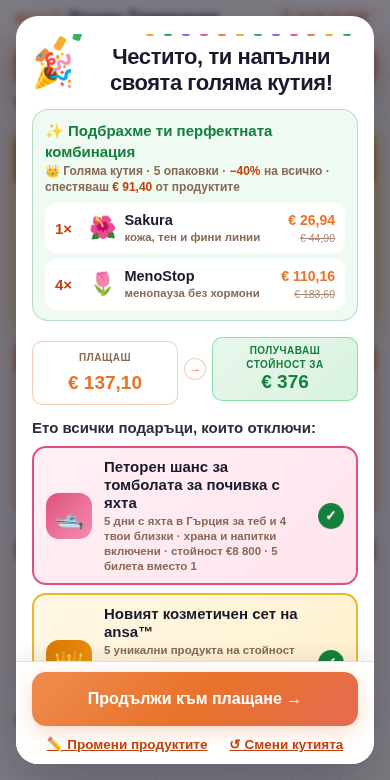
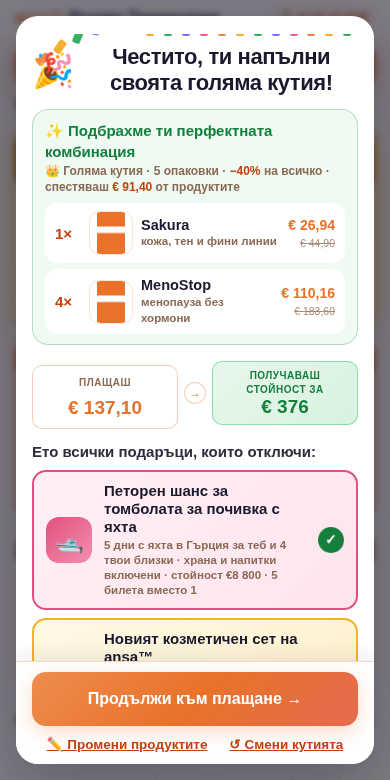
ansa™ Промо 1.0.3: цял екран, WC снимки, бадж с цена в пълненето, таб 📦 Продукти
Темплейт „ansa™ Промо — цял екран“ + настройка за скриване на елементи на темата по селектори;
overlay/тост/sticky над хедъра на темата. promo-extra.css: контейнери за WC снимки (object-fit),
бадж −% и намалена/редовна цена в редовете на „Напълни кутията си“. Админ: таб Продукти —
ключ ↔ WC продукт (търсене по име/ID с превю), всички полета, добавяне/изтриване.

Claude-Session: https://claude.ai/code/session_016eHbdq6ce2AdM4hWrfpux9

diff --git a/assets/promo.js b/assets/promo.js
@@ -78,6 +78,9 @@
   function boxVars(b){return {box:esc(b.name),box_l:esc(b.name.toLowerCase()),box_ic:b.ic,packs:b.packs,opk:opk(b.packs),pct:b.pct,tickets:tixOf(b),shans:shans(tixOf(b)),rest:b.packs-1,opk_rest:opk(b.packs-1),cosm_pay:b.cosm_pay!=null?money(b.cosm_pay):'',save:m0(boxSaveMax(b)),produkt:b.packs===1?'продукт':'продукти'}}
   /* козметичният сет: винаги зачертана стойност + „величествена“ цена (pill, никога inline) */
   function cosmPrice(r,big){if(r!=='cosm1'&&r!=='cosm50')return '';var b=boxOf(r==='cosm1'?'l':'m');if(!b||b.cosm_pay==null)return '';return '<span class="cpx'+(r==='cosm1'?' one':' half')+(big?' big':'')+'"><small'+ck('cpx.label')+'>'+T('cpx.label')+'</small><s>€'+COSM+'</s><b>€'+money(b.cosm_pay)+'</b></span>'}
+  /* v1.0.3: бадж с отстъпката + намалена/редовна цена в редовете на пълненето (искане на човека; не е в мокъп v73) */
+  function fprc(pr,b){return '<span class="fpct">−'+b.pct+'%</span>'}
+  function fprice(pr,b){return '<span class="fprc"><b>'+m(r2(pr.price*(1-b.pct/100)))+'</b><s>'+m(pr.price)+'</s></span>'}
   function tgtVars(t){var d=t.packs-(S.box!==null?BX().packs:0);return {box_t:esc(t.name),box_t_l:esc(t.name.toLowerCase()),box_t_ic:t.ic,pct_t:t.pct,save_t:m0(boxSaveMax(t)),s_box_t:sPrep(t.name,true),diff:d,prod_diff:prodw(d),opk_diff:opk(d),delyat:d===1?'дели':'делят'}}
 
   /* ── имейл-попъп (v73 „g2“): веднъж на сесия, може да се пропусне ── */
@@ -232,7 +235,7 @@
     var body='<div class="fp2"><div class="f2h"><b'+ck('fill.hero.'+b.id)+'>'+b.ic+' '+T('fill.hero.'+b.id)+'</b><div class="fgifts">'+gifts+'</div></div>'
       +'<div class="f2box"><p class="f2intro"'+ck('fill.intro')+'>'+T('fill.intro',bv)+'</p>'+mix+'</div>'
       +'<div class="fslots" id="fSlots"></div>'
-      +'<div class="fcats">'+rows.map(function(r){var pr=PROD[r.key];return '<div class="fcat'+(r.core?' core':'')+'" data-nq="'+r.key+'"><span class="pic">'+pic(pr,'pimg')+'</span><div class="ftx"><em class="fct">'+esc(r.t)+'</em><b>'+esc(pr.name)+'</b><small>'+esc(r.why)+'</small><button class="fmore" data-more="'+r.key+'"'+ck('fill.more')+'>'+T('fill.more')+'</button></div><span class="stp"><button data-dec="'+r.key+'" aria-label="−">−</button><b data-q="'+r.key+'">0</b><button data-inc="'+r.key+'" aria-label="+">+</button></span></div>'}).join('')+'</div>'
+      +'<div class="fcats">'+rows.map(function(r){var pr=PROD[r.key];return '<div class="fcat'+(r.core?' core':'')+'" data-nq="'+r.key+'">'+fprc(pr,b)+'<span class="pic">'+pic(pr,'pimg')+'</span><div class="ftx"><em class="fct">'+esc(r.t)+'</em><b>'+esc(pr.name)+'</b><small>'+esc(r.why)+'</small>'+fprice(pr,b)+'<button class="fmore" data-more="'+r.key+'"'+ck('fill.more')+'>'+T('fill.more')+'</button></div><span class="stp"><button data-dec="'+r.key+'" aria-label="−">−</button><b data-q="'+r.key+'">0</b><button data-inc="'+r.key+'" aria-label="+">+</button></span></div>'}).join('')+'</div>'
       +'<button class="cta" id="nFill"></button><div class="fback"><button class="lnk" id="fBack"'+ck('fill.back')+'>'+T('fill.back')+'</button></div></div>';
     var mob=MOB();
     if(mob){
@@ -242,7 +245,7 @@
       body='<div class="mfh"><div class="mft"><span class="mfi">'+b.ic+'</span><div class="mftx"><b>'+esc(b.name)+'</b><small'+ck('mfill.pct')+'>'+T('mfill.pct',bv)+'</small></div><button class="mfsw" id="fBack"'+ck('mfill.sw')+'>'+T('mfill.sw')+'</button><button class="mfx" id="fClose" aria-label="затвори">✕</button></div>'
         +'<p class="mfin"'+ck('mfill.intro')+'>'+T('mfill.intro',Object.assign({same:P>1?T('mfill.same'):''},bv))+'</p>'
         +'<div class="mfg">'+gl.map(function(x){return '<span>'+x+'</span>'}).join('')+'</div></div>'
-        +'<div class="mfl">'+rows.map(function(r){var pr=PROD[r.key];return '<div class="fcat mrow'+(r.core?' core':'')+'" data-nq="'+r.key+'"><span class="pic">'+pic(pr,'pimg')+'</span><div class="ftx"><em class="fct">'+(r.core?T('mfill.core',{t:esc(r.t)}):esc(r.t))+'</em><b>'+esc(pr.name)+'</b><small>'+esc(r.why)+'</small><button class="fmore" data-more="'+r.key+'"'+ck('mfill.more')+'>'+T('mfill.more')+'</button></div><div class="mact"><button class="madd" data-inc="'+r.key+'"'+ck('mfill.add')+'>'+T('mfill.add')+'</button><span class="stp"><button data-dec="'+r.key+'" aria-label="−">−</button><b data-q="'+r.key+'">0</b><button data-inc="'+r.key+'" aria-label="+">+</button></span></div></div>'}).join('')+'</div>'
+        +'<div class="mfl">'+rows.map(function(r){var pr=PROD[r.key];return '<div class="fcat mrow'+(r.core?' core':'')+'" data-nq="'+r.key+'">'+fprc(pr,b)+'<span class="pic">'+pic(pr,'pimg')+'</span><div class="ftx"><em class="fct">'+(r.core?T('mfill.core',{t:esc(r.t)}):esc(r.t))+'</em><b>'+esc(pr.name)+'</b><small>'+esc(r.why)+'</small>'+fprice(pr,b)+'<button class="fmore" data-more="'+r.key+'"'+ck('mfill.more')+'>'+T('mfill.more')+'</button></div><div class="mact"><button class="madd" data-inc="'+r.key+'"'+ck('mfill.add')+'>'+T('mfill.add')+'</button><span class="stp"><button data-dec="'+r.key+'" aria-label="−">−</button><b data-q="'+r.key+'">0</b><button data-inc="'+r.key+'" aria-label="+">+</button></span></div></div>'}).join('')+'</div>'
         +'<div class="mff"><div class="fslots" id="fSlots"></div><button class="cta" id="nFill"></button></div>';
     }
     info(mob?'':T('fill.title'),body);var dc=$('apDc');dc.classList.add('fpw');if(mob)dc.classList.add('fpm');

diff --git a/assets/promo-extra.css b/assets/promo-extra.css
@@ -1,0 +1,44 @@
+/* ansa™ Промо — добавки на плъгина ВЪРХУ порта на мокъпа (promo.css се генерира и не се пипа на ръка).
+   1) WC снимки вместо емоджита: контейнерите стават с фиксиран размер, бял фон и object-fit:contain.
+   2) z-index: overlay/тост/sticky над хедъра на темата (root-ът НЕ е stacking context).
+   3) Бадж с отстъпката + редовна/намалена цена в редовете на „Напълни кутията си“ (искане на човека, не е в мокъп v73).
+   4) „Цял екран“: скриване на хедър/футър/плаващи бутони на темата на промо страницата (селекторите са настройка). */
+
+/* ── 1 · снимки ── */
+.ansa-promo img.pimg,.ansa-promo img.timg,.ansa-promo img.simg,.ansa-promo img.oimg,.ansa-promo img.cimg,.ansa-promo img.gimg,.ansa-promo img.ppi,.ansa-promo img.hpic{width:100%;height:100%;object-fit:contain;border-radius:inherit;display:block;background:#fff}
+.ansa-promo .cit i{flex:0 0 44px;width:44px;height:44px;border-radius:11px;background:linear-gradient(145deg,#fff6ee,#ffe3cf);display:flex;align-items:center;justify-content:center;overflow:hidden}
+.ansa-promo .cit .ctx{min-width:0}
+.ansa-promo .cit .ctx b,.ansa-promo .cit .ctx small{display:block;white-space:normal;word-break:normal;overflow-wrap:anywhere}
+.ansa-promo .fcat .pic,.ansa-promo .spic,.ansa-promo .tile .pic,.ansa-promo .orow .pic,.ansa-promo .ppic,.ansa-promo .ppimg,.ansa-promo .g2pic,.ansa-promo .fs{overflow:hidden;flex-shrink:0}
+.ansa-promo .fcat .pic:has(img),.ansa-promo .spic:has(img),.ansa-promo .tile .pic:has(img),.ansa-promo .orow .pic:has(img),.ansa-promo .ppic:has(img),.ansa-promo .ppimg:has(img),.ansa-promo .cit i:has(img),.ansa-promo .fs:has(img){background:#fff;border:1px solid rgba(232,114,42,.18)}
+.ansa-promo .fs img{width:100%;height:100%;object-fit:contain;border-radius:inherit}
+.ansa-promo .g2pic img.gimg{border-radius:50%;object-fit:cover}
+.ansa-promo h3 img.hpic{width:28px;height:28px;display:inline-block;vertical-align:middle;border-radius:8px;margin-right:4px}
+.ansa-promo .ppimg img.ppi{border-radius:22px}
+
+/* ── 2 · z-index над темата ── */
+.ansa-promo{position:relative;z-index:auto}
+.ansa-promo::before{z-index:0}
+.ansa-promo .wrap{position:relative;z-index:1}
+.ansa-promo .hdr{z-index:2147482990;top:var(--ansa-promo-top,0px)}
+.ansa-promo .sticky{z-index:2147482995}
+.ansa-promo .ov{z-index:2147483000}
+.ansa-promo .ov2{z-index:2147483001}
+.ansa-promo .toast{z-index:2147483002}
+body.admin-bar .ansa-promo{--ansa-promo-top:32px}
+@media(max-width:782px){body.admin-bar .ansa-promo{--ansa-promo-top:46px}}
+
+/* ── 3 · цена и отстъпка в редовете на пълненето ── */
+.ansa-promo .fcat{position:relative}
+.ansa-promo .fcat .fpct{position:absolute;top:-9px;right:10px;background:linear-gradient(135deg,#ef8c4f,#e8722a);color:#fff;font-size:11px;font-weight:900;letter-spacing:.02em;border-radius:999px;padding:2px 8px;box-shadow:0 2px 8px rgba(232,114,42,.3);z-index:2}
+.ansa-promo .fcat.on .fpct{background:linear-gradient(135deg,#16a34a,#4ade80)}
+.ansa-promo .fcat .fprc{display:flex;align-items:baseline;gap:6px;margin:2px 0 3px;font-size:12.5px;line-height:1.2}
+.ansa-promo .fcat .fprc b{color:var(--od);font-size:15px;font-weight:900}
+.ansa-promo .fcat .fprc s{color:var(--tan2);font-weight:500;font-size:12px}
+.ansa-promo .fcat.on .fprc b{color:var(--gd)}
+.ansa-promo .fcat.mrow .fpct{top:-8px;right:8px;font-size:10.5px}
+
+/* ── 4 · цял екран на страницата ── */
+body.ansa-promo-fullscreen{margin:0;padding:0!important;background:var(--cream,#faf3ec)}
+body.ansa-promo-fullscreen .ansa-promo{min-height:100vh}
+body.ansa-promo-page #wpadminbar{display:none}

diff --git a/assets/promo.css b/assets/promo.css
@@ -1462,6 +1462,6 @@
 }
 
 /* ── обвивка в WP: фонът не е на body, а на root-а ── */
-.ansa-promo{position:relative;z-index:0;min-height:60vh}
+.ansa-promo{position:relative;min-height:60vh}
 .ansa-promo::before{position:absolute}
 .ansa-promo .wrap{min-height:auto}

diff --git a/includes/class-admin.php b/includes/class-admin.php
@@ -21,6 +21,17 @@ final class Admin {
 		add_action( 'admin_menu', array( __CLASS__, 'menu' ) );
 		add_filter( 'plugin_action_links_' . plugin_basename( ANSA_PROMO_FILE ), array( __CLASS__, 'action_links' ) );
 		add_action( 'admin_post_ansa_promo_tools', array( __CLASS__, 'handle' ) );
+		add_action( 'wp_ajax_ansa_promo_admin_search', array( __CLASS__, 'ajax_search' ) );
+	}
+
+	/** Търсене на WC продукт по име (таб Продукти). */
+	public static function ajax_search() {
+		if ( ! current_user_can( Plugin::CAP ) || ! check_ajax_referer( self::NONCE, 'nonce', false ) ) { wp_send_json_error( array( 'code' => 'auth' ), 403 ); }
+		$q = sanitize_text_field( (string) wp_unslash( $_GET['q'] ?? '' ) );
+		$out = array();
+		if ( ctype_digit( $q ) ) { $wc = Catalog::wc_line( (int) $q ); if ( $wc['wc_name'] ) { $out[] = array( 'id' => (int) $q, 'name' => $wc['wc_name'], 'type' => $wc['variation_id'] ? 'variable' : 'simple', 'price' => $wc['price'], 'img' => $wc['img'] ); } }
+		foreach ( Catalog::search( $q, 10 ) as $r ) { $wc = Catalog::wc_line( $r['id'] ); $r['img'] = $wc['img']; $r['price'] = $wc['price']; $r['note'] = $wc['note']; $out[] = $r; }
+		wp_send_json_success( $out );
 	}
 
 	public static function menu() {
@@ -54,7 +65,21 @@ final class Admin {
 				$cfg['utm_param'] = sanitize_text_field( (string) wp_unslash( $_POST['utm_param'] ?? 'utm_content' ) );
 				$cfg['gate']['enabled'] = ! empty( $_POST['gate_enabled'] ); $cfg['gate']['required'] = ! empty( $_POST['gate_required'] );
 				$cfg['bgn']['show'] = ! empty( $_POST['bgn_show'] );
+				$cfg['theme']['hide'] = ! empty( $_POST['theme_hide'] ); $cfg['theme']['selectors'] = (string) wp_unslash( $_POST['theme_selectors'] ?? '' );
 				Config::save_draft( $cfg ); $msg = 'Черновата е записана.'; break;
+			case 'products':
+				$cfg = Config::get_draft(); $rows = (array) ( $_POST['p'] ?? array() ); $new = array();
+				foreach ( $rows as $r ) {
+					if ( ! is_array( $r ) || ! empty( $r['del'] ) ) { continue; }
+					$r = wp_unslash( $r ); $key = strtolower( preg_replace( '/[^a-z0-9_\-]/i', '', (string) ( $r['key'] ?? '' ) ) );
+					if ( '' === $key && '' === trim( (string) ( $r['name'] ?? '' ) ) ) { continue; }
+					$old = Config::product( $cfg, $key ) ?: Config::product_defaults();
+					foreach ( array( 'key', 'name', 'ph', 'gname', 'gsub', 'ds', 'desc', 'ing', 'who', 'rating', 'reviews', 'cat', 'pack' ) as $f ) { if ( isset( $r[ $f ] ) ) { $old[ $f ] = (string) $r[ $f ]; } }
+					$old['product_id'] = (int) ( $r['product_id'] ?? 0 ); $old['img'] = (int) ( $r['img'] ?? 0 ); $old['enabled'] = ! empty( $r['enabled'] );
+					if ( isset( $r['theme'] ) ) { $old['theme'] = array_map( 'trim', explode( ',', (string) $r['theme'] ) ); }
+					$new[] = $old;
+				}
+				$cfg['products'] = $new; Config::save_draft( $cfg ); $msg = 'Продуктите са записани в черновата (' . count( $new ) . ').'; break;
 			case 'publish':
 				$msg = Config::publish() ? 'Публикувано — версия ' . Config::version() . '.' : 'Няма какво да се публикува.'; break;
 			case 'discard':
@@ -82,7 +107,7 @@ final class Admin {
 		$col  = array( 'ok' => '#1a7f37', 'warn' => '#9a6700', 'bad' => '#cf222e', 'info' => '#57606a' );
 		$draft = Config::get_draft(); $pub = Config::get_published();
 		$page_url = $draft['page_id'] ? get_permalink( $draft['page_id'] ) : '';
-		$tabs = array( 'status' => 'Състояние', 'tools' => '🧰 Инструменти', 'json' => 'JSON' );
+		$tabs = array( 'status' => 'Състояние', 'tools' => '🧰 Инструменти', 'products' => '📦 Продукти', 'json' => 'JSON' );
 		?>
 		<div class="wrap">
 			<h1>🎁 ansa™ Промо <small style="font-weight:400;color:#777">v<?php echo esc_html( ANSA_PROMO_VER ); ?> · Фаза 1</small></h1>
@@ -111,6 +136,11 @@ final class Admin {
 						<tr><th>UTM параметър</th><td><input type="text" name="utm_param" value="<?php echo esc_attr( $draft['utm_param'] ); ?>" class="regular-text"> <span class="description">кацане: <code>?<?php echo esc_html( $draft['utm_param'] ); ?>=sakura</code></span></td></tr>
 						<tr><th>Имейл-попъп</th><td><label><input type="checkbox" name="gate_enabled" value="1"<?php checked( $draft['gate']['enabled'] ); ?>> включен</label> &nbsp; <label><input type="checkbox" name="gate_required" value="1"<?php checked( $draft['gate']['required'] ); ?>> задължителен (без „Продължи без имейл“)</label></td></tr>
 						<tr><th>Лева в поръчката</th><td><label><input type="checkbox" name="bgn_show" value="1"<?php checked( $draft['bgn']['show'] ); ?>> показвай „(… лв.)“ до крайната сума</label></td></tr>
+						<tr><th>Цял екран</th><td>
+							<p>1) На страницата: Page Attributes → Template → <b>„ansa™ Промо — цял екран“</b> — без хедър и футър на темата (препоръчано).</p>
+							<label><input type="checkbox" name="theme_hide" value="1"<?php checked( $draft['theme']['hide'] ); ?>> 2) Скрий и тези елементи на темата/плъгините на промо страницата (един селектор на ред; работи и без темплейта):</label><br>
+							<textarea name="theme_selectors" rows="6" class="large-text code"><?php echo esc_textarea( $draft['theme']['selectors'] ); ?></textarea>
+						</td></tr>
 					</table>
 					<p><button class="button button-primary">💾 Запази черновата</button></p>
 				</form>
@@ -141,6 +171,58 @@ final class Admin {
 				<p class="description">Свързването ключ ↔ WC продукт и останалите полета са в ⚙ Двигател (Фаза 2). Дотогава: таб JSON (полето <code>product_id</code>).</p>
 				<?php self::form_open( 'seed', 'tools', ' onsubmit="return confirm(\'Това презаписва продуктите, FIT и проблемите в черновата с тези от мокъпа. Страницата, текстовете, срокът и чекаутът остават. Продължавам?\')"' ); ?><button class="button">🌱 Направи продуктите наново от мокъпа (търси ги в WC по име)</button></form>
 				</div>
+			<?php elseif ( 'products' === $tab ) : ?>
+				<?php $plist = $draft['products']; $plist[] = array_merge( Config::product_defaults(), array( 'key' => '', 'name' => '', 'enabled' => true, '_new' => true ) ); ?>
+				<?php self::form_open( 'products', 'products', ' style="display:block;margin-top:14px" id="apProducts"' ); ?>
+					<p>Ключът е UTM стойността (<code>?<?php echo esc_html( $draft['utm_param'] ); ?>=ключ</code>). Снимката и цената идват от избрания WC продукт (при variable — вариацията „1 брой“); „Снимка (attachment id)“ я заменя. Последният ред е за нов продукт. Записва се в <b>черновата</b> — публикуваш от 🧰 Инструменти.</p>
+					<style>.ap-prod{background:#fff;border:1px solid #dcdcde;border-radius:8px;padding:10px 12px;margin-bottom:10px}.ap-prod .ap-row{display:grid;grid-template-columns:70px 110px 1fr 1fr 70px;gap:8px;align-items:end}.ap-prod .ap-row2{display:grid;grid-template-columns:1fr 1fr 1fr;gap:8px;margin-top:8px}.ap-prod label{font-size:11px;color:#50575e;display:block}.ap-prod input[type=text],.ap-prod input[type=number],.ap-prod textarea{width:100%}.ap-prod .ap-wc{display:flex;gap:6px;align-items:center}.ap-prod .ap-wc input{width:90px}.ap-prod .ap-res{position:absolute;z-index:10;background:#fff;border:1px solid #c3c4c7;box-shadow:0 4px 14px rgba(0,0,0,.12);max-height:260px;overflow:auto;min-width:320px}.ap-prod .ap-res button{display:flex;gap:8px;align-items:center;width:100%;text-align:left;border:0;background:#fff;padding:6px 8px;cursor:pointer}.ap-prod .ap-res button:hover{background:#f0f6fc}.ap-prod .ap-res img{width:32px;height:32px;object-fit:contain}.ap-prod .ap-thumb{width:48px;height:48px;object-fit:contain;border:1px solid #dcdcde;border-radius:6px;background:#fff}.ap-prod details{margin-top:6px}.ap-prod summary{cursor:pointer;color:#2271b1;font-size:12px}</style>
+					<?php foreach ( $plist as $i => $p ) : $wc = $p['product_id'] ? Catalog::wc_line( $p['product_id'] ) : null; ?>
+					<div class="ap-prod"<?php echo ! empty( $p['_new'] ) ? ' style="border-style:dashed"' : ''; ?>>
+						<div class="ap-row">
+							<div><label>вкл.</label><input type="checkbox" name="p[<?php echo $i; ?>][enabled]" value="1"<?php checked( ! empty( $p['enabled'] ) ); ?>> <label style="display:inline">изтрий</label> <input type="checkbox" name="p[<?php echo $i; ?>][del]" value="1"></div>
+							<div><label>ключ (UTM)</label><input type="text" name="p[<?php echo $i; ?>][key]" value="<?php echo esc_attr( $p['key'] ); ?>" placeholder="<?php echo ! empty( $p['_new'] ) ? 'нов' : ''; ?>"></div>
+							<div><label>име на страницата</label><input type="text" name="p[<?php echo $i; ?>][name]" value="<?php echo esc_attr( $p['name'] ); ?>"></div>
+							<div style="position:relative"><label>WC продукт (търси по име или ID)</label><div class="ap-wc"><input type="number" name="p[<?php echo $i; ?>][product_id]" value="<?php echo (int) $p['product_id']; ?>" class="ap-pid"><input type="text" class="ap-q" placeholder="търси…" style="flex:1" autocomplete="off"><img class="ap-thumb" src="<?php echo esc_url( $wc && $wc['img'] ? $wc['img'] : '' ); ?>" alt="" <?php echo $wc && $wc['img'] ? '' : 'style="visibility:hidden"'; ?>></div><div class="ap-res" hidden></div><small class="ap-note"><?php echo $wc ? esc_html( ( $wc['ok'] ? $wc['wc_name'] . ' · €' . number_format( $wc['price'], 2, ',', '' ) . ( $wc['variation_id'] ? ' · вар.#' . $wc['variation_id'] : '' ) . ( $wc['stock'] ? '' : ' · НЕ Е НАЛИЧЕН' ) : 'ПРОБЛЕМ: ' . $wc['note'] ) ) : 'не е свързан — няма да се показва'; ?></small></div>
+							<div><label>емоджи</label><input type="text" name="p[<?php echo $i; ?>][ph]" value="<?php echo esc_attr( $p['ph'] ); ?>"></div>
+						</div>
+						<div class="ap-row2">
+							<div><label>категория (селектор)</label><input type="text" name="p[<?php echo $i; ?>][cat]" value="<?php echo esc_attr( $p['cat'] ); ?>"></div>
+							<div><label>кратко „за какво е“ (ds)</label><input type="text" name="p[<?php echo $i; ?>][ds]" value="<?php echo esc_attr( $p['ds'] ); ?>"></div>
+							<div><label>снимка (attachment id, по избор)</label><input type="number" name="p[<?php echo $i; ?>][img]" value="<?php echo (int) $p['img']; ?>"></div>
+						</div>
+						<details><summary>още: описание · съставки · за кого · опаковка · рейтинг · отзиви · gate име/подзаглавие · цветове</summary>
+							<div class="ap-row2">
+								<div><label>описание (desc)</label><textarea name="p[<?php echo $i; ?>][desc]" rows="3"><?php echo esc_textarea( $p['desc'] ); ?></textarea></div>
+								<div><label>какво съдържа (ing)</label><textarea name="p[<?php echo $i; ?>][ing]" rows="3"><?php echo esc_textarea( $p['ing'] ); ?></textarea></div>
+								<div><label>за кого е (who)</label><textarea name="p[<?php echo $i; ?>][who]" rows="3"><?php echo esc_textarea( $p['who'] ); ?></textarea></div>
+								<div><label>опаковка (напр. 60 капсули · за 30 дни)</label><input type="text" name="p[<?php echo $i; ?>][pack]" value="<?php echo esc_attr( $p['pack'] ); ?>"></div>
+								<div><label>рейтинг (напр. 4.9 · 1 120 отзива)</label><input type="text" name="p[<?php echo $i; ?>][rating]" value="<?php echo esc_attr( $p['rating'] ); ?>"></div>
+								<div><label>цветове на gate-а (3 hex, със запетая)</label><input type="text" name="p[<?php echo $i; ?>][theme]" value="<?php echo esc_attr( implode( ',', (array) $p['theme'] ) ); ?>"></div>
+								<div><label>gate: пълно име (gname)</label><input type="text" name="p[<?php echo $i; ?>][gname]" value="<?php echo esc_attr( $p['gname'] ); ?>"></div>
+								<div><label>gate: подзаглавие (gsub)</label><input type="text" name="p[<?php echo $i; ?>][gsub]" value="<?php echo esc_attr( $p['gsub'] ); ?>"></div>
+								<div><label>отзиви (ред = име|звезди|текст)</label><textarea name="p[<?php echo $i; ?>][reviews]" rows="3"><?php echo esc_textarea( $p['reviews'] ); ?></textarea></div>
+							</div>
+						</details>
+					</div>
+					<?php endforeach; ?>
+					<p><button class="button button-primary">💾 Запази продуктите в черновата</button></p>
+				</form>
+				<script>
+				(function(){
+					var nonce=<?php echo wp_json_encode( wp_create_nonce( self::NONCE ) ); ?>,ajax=<?php echo wp_json_encode( admin_url( 'admin-ajax.php' ) ); ?>,t;
+					document.querySelectorAll('#apProducts .ap-q').forEach(function(q){
+						var box=q.closest('.ap-wc').parentNode.querySelector('.ap-res'),pid=q.closest('.ap-wc').querySelector('.ap-pid'),img=q.closest('.ap-wc').querySelector('.ap-thumb'),note=q.closest('.ap-wc').parentNode.querySelector('.ap-note');
+						q.addEventListener('input',function(){clearTimeout(t);var v=q.value.trim();if(v.length<2){box.hidden=true;return}
+							t=setTimeout(function(){fetch(ajax+'?action=ansa_promo_admin_search&nonce='+nonce+'&q='+encodeURIComponent(v),{credentials:'same-origin'}).then(function(r){return r.json()}).then(function(r){
+								if(!r||!r.success){box.hidden=true;return}
+								box.innerHTML=r.data.length?r.data.map(function(x){return '<button type="button" data-id="'+x.id+'" data-img="'+(x.img||'')+'" data-name="'+x.name.replace(/"/g,'&quot;')+'" data-price="'+x.price+'"><img src="'+(x.img||'')+'" alt="">#'+x.id+' '+x.name+' <small>'+x.type+' · €'+x.price+(x.note?' · '+x.note:'')+'</small></button>'}).join(''):'<div style="padding:8px">нищо</div>';
+								box.hidden=false;
+								box.querySelectorAll('button').forEach(function(b){b.onclick=function(){pid.value=b.dataset.id;img.src=b.dataset.img;img.style.visibility=b.dataset.img?'visible':'hidden';note.textContent=b.dataset.name+' · €'+b.dataset.price+' (запази, за да влезе в черновата)';box.hidden=true;q.value=''}});
+							})},300)});
+						document.addEventListener('click',function(e){if(!box.contains(e.target)&&e.target!==q)box.hidden=true});
+					});
+				})();
+				</script>
 			<?php elseif ( 'json' === $tab ) : ?>
 				<?php self::form_open( 'import', 'json', ' style="display:block;max-width:900px;margin-top:14px"' ); ?>
 					<p>Черновата като JSON. Редактирай и „Внеси“ — записва се като чернова (минава през normalize), публикуваш от 🧰 Инструменти.</p>

diff --git a/includes/class-frontend.php b/includes/class-frontend.php
@@ -26,6 +26,34 @@ final class Frontend {
 		add_filter( 'wp_resource_hints', array( __CLASS__, 'hints' ), 10, 2 );
 		add_action( 'wp_ajax_ansa_promo_runtime', array( __CLASS__, 'ajax_runtime' ) );
 		add_action( 'wp_ajax_nopriv_ansa_promo_runtime', array( __CLASS__, 'ajax_runtime' ) );
+		/* v1.0.3: темплейт „цял екран“ за страници + скриване на елементи на темата */
+		add_filter( 'theme_page_templates', array( __CLASS__, 'page_templates' ), 10, 4 );
+		add_filter( 'template_include', array( __CLASS__, 'template_include' ), 99 );
+		add_filter( 'body_class', array( __CLASS__, 'body_class' ) );
+		add_action( 'wp_head', array( __CLASS__, 'hide_css' ), 99 );
+	}
+
+	const TEMPLATE = 'ansa-promo-fullscreen.php';
+	public static function page_templates( $templates, $theme = null, $post = null, $post_type = 'page' ) {
+		if ( 'page' === $post_type ) { $templates[ self::TEMPLATE ] = 'ansa™ Промо — цял екран'; }
+		return $templates;
+	}
+	public static function is_fullscreen() { return is_singular( 'page' ) && get_page_template_slug( get_queried_object_id() ) === self::TEMPLATE; }
+	public static function template_include( $template ) {
+		return self::is_fullscreen() ? ANSA_PROMO_PATH . 'templates/fullscreen.php' : $template;
+	}
+	public static function body_class( $classes ) {
+		if ( self::is_promo_page() ) { $classes[] = 'ansa-promo-page'; }
+		return $classes;
+	}
+	/** Скрива хедър/футър/плаващи бутони на темата на промо страницата (настройка theme.hide + селектори). */
+	public static function hide_css() {
+		if ( ! self::is_promo_page() ) { return; }
+		$cfg = self::cfg();
+		if ( empty( $cfg['theme']['hide'] ) ) { return; }
+		$sel = array_values( array_filter( array_map( 'trim', preg_split( '/\r?\n/', (string) $cfg['theme']['selectors'] ) ) ) );
+		if ( ! $sel ) { return; }
+		echo '<style id="ansa-promo-hide">' . esc_html( implode( ',', $sel ) ) . '{display:none!important}body.ansa-promo-page{padding-top:0!important}</style>' . "\n";
 	}
 
 	public static function add_shortcode() { add_shortcode( Plugin::SHORTCODE, array( __CLASS__, 'shortcode' ) ); }
@@ -59,6 +87,7 @@ final class Frontend {
 		static $done = false; if ( $done ) { return; } $done = true;
 		wp_enqueue_style( 'ansa-promo-nunito', 'https://fonts.googleapis.com/css2?family=Nunito:wght@400;500;600;700;800;900&display=swap', array(), null );
 		wp_enqueue_style( 'ansa-promo', ANSA_PROMO_URL . 'assets/promo.css', array( 'ansa-promo-nunito' ), ANSA_PROMO_VER );
+		wp_enqueue_style( 'ansa-promo-extra', ANSA_PROMO_URL . 'assets/promo-extra.css', array( 'ansa-promo' ), ANSA_PROMO_VER );
 		wp_enqueue_script( 'ansa-promo', ANSA_PROMO_URL . 'assets/promo.js', array(), ANSA_PROMO_VER, true );
 		wp_add_inline_script( 'ansa-promo', 'window.AnsaPromoRuntime=' . wp_json_encode( self::runtime( self::cfg(), self::is_draft_request() ), JSON_UNESCAPED_UNICODE | JSON_UNESCAPED_SLASHES ) . ';', 'before' );
 	}

diff --git a/includes/class-config.php b/includes/class-config.php
@@ -52,8 +52,15 @@ final class Config {
 			'checkout'  => array( 'card_gateway' => 'fkwcs_stripe', 'cod_gateway' => 'cod', 'block_coupons' => true, 'consent_default' => true ),
 			'tickets'   => array( 'portal_url' => '', 'secret' => '', 'partner_bonus' => 1 ),
 			'bgn'       => array( 'show' => true, 'rate' => 1.95583 ),
+			/* v1.0.3: страницата на цял екран — темплейтът „ansa™ Промо — цял екран“ + скриване на елементи на темата по селектори */
+			'theme'     => array( 'hide' => true, 'selectors' => self::default_hide_selectors() ),
 			'copy'      => array(),
 		);
+	}
+
+	/** Хедър/футър/плаващи бутони на OceanWP, Elementor, FunnelKit Cart, Claspo — скриват се на промо страницата. */
+	public static function default_hide_selectors() {
+		return "#site-header\n#site-header-sticky-wrapper\n.oceanwp-mobile-menu-icon\n#footer\n#site-footer\n.site-footer\n.page-header\nheader.elementor-location-header\nfooter.elementor-location-footer\n[data-elementor-type=\"header\"]\n[data-elementor-type=\"footer\"]\n.fkcart-floating-toggler\n#fkcart-floating-toggler\n.fkcart-toggler\n#scroll-top\n.claspo-widget\n#elementor-popup-modal";
 	}
 
 	public static function product_defaults() {
@@ -123,6 +130,7 @@ final class Config {
 		$out['checkout']['card_gateway'] = sanitize_key( (string) $out['checkout']['card_gateway'] ); $out['checkout']['cod_gateway'] = sanitize_key( (string) $out['checkout']['cod_gateway'] ); $out['checkout']['block_coupons'] = ! empty( $out['checkout']['block_coupons'] ); $out['checkout']['consent_default'] = ! empty( $out['checkout']['consent_default'] );
 		$out['tickets']['portal_url'] = esc_url_raw( (string) $out['tickets']['portal_url'] ); $out['tickets']['secret'] = preg_replace( '/[^A-Za-z0-9_\-]/', '', (string) $out['tickets']['secret'] ); $out['tickets']['partner_bonus'] = max( 0, (int) $out['tickets']['partner_bonus'] );
 		$out['bgn']['show'] = ! empty( $out['bgn']['show'] ); $out['bgn']['rate'] = (float) $out['bgn']['rate'] ?: 1.95583;
+		$out['theme']['hide'] = ! empty( $out['theme']['hide'] ); $out['theme']['selectors'] = implode( "\n", array_filter( array_map( function ( $l ) { return trim( preg_replace( '/[{}<>]/', '', (string) $l ) ); }, preg_split( '/\r?\n/', (string) $out['theme']['selectors'] ) ) ) );
 		$out['copy'] = Copy::diff( is_array( $out['copy'] ) ? $out['copy'] : array() );
 		return $out;
 	}

diff --git a/ansa-promo.php b/ansa-promo.php
@@ -3,7 +3,7 @@
  * Plugin Name: ansa™ Промо
  * Plugin URI:  https://ansa.bg
  * Description: Промо играта на ansa™ (три кутии): страница [ansa_promo], визуален редактор на текстовете, количка и чекаут, дигитални билети. Самостоятелен плъгин — ansa™ Shrine остава за продуктовите страници.
- * Version:     1.0.2
+ * Version:     1.0.3
  * GitHub Plugin URI: proclaudecopilot/ansa-promo
  * Author:      ansa.bg
  * Text Domain: ansa-promo
@@ -15,7 +15,7 @@
 
 defined( 'ABSPATH' ) || exit;
 
-define( 'ANSA_PROMO_VER', '1.0.2' );
+define( 'ANSA_PROMO_VER', '1.0.3' );
 /* Същата стойност под второ име: ansa™ Shrine ≥ 6.19.22 проверява точно тази константа
    в includes/promo/bootstrap.php и НЕ зарежда своя (пенсиониран) промо модул, щом я види. */
 define( 'ANSA_PROMO_PLUGIN_VER', ANSA_PROMO_VER );

diff --git a/templates/fullscreen.php b/templates/fullscreen.php
@@ -1,0 +1,24 @@
+<?php
+/**
+ * Template Name: ansa™ Промо — цял екран
+ *
+ * Регистрира се от плъгина (theme_page_templates). Без хедър/футър на темата: само wp_head, съдържанието и wp_footer.
+ * Плаващите бутони, които темата/плъгините добавят в wp_footer, се крият през настройката „Скрий елементите на темата“.
+ *
+ * @package AnsaPromo
+ * @since 1.0.3
+ */
+defined( 'ABSPATH' ) || exit;
+?><!DOCTYPE html>
+<html <?php language_attributes(); ?>>
+<head>
+<meta charset="<?php bloginfo( 'charset' ); ?>">
+<meta name="viewport" content="width=device-width, initial-scale=1, viewport-fit=cover">
+<?php wp_head(); ?>
+</head>
+<body <?php body_class( 'ansa-promo-fullscreen ansa-promo-page' ); ?>>
+<?php wp_body_open(); ?>
+<?php while ( have_posts() ) { the_post(); the_content(); } ?>
+<?php wp_footer(); ?>
+</body>
+</html>

diff --git a/docs/port-css.py b/docs/port-css.py
@@ -78,7 +78,7 @@ def main(path):
            ", 1:1; всеки селектор е под .ansa-promo).\n   Генериран от " + path +
            " с docs/port-css.py — не се редактира на ръка, редактира се мокъпът. */\n")
     tail = ("\n/* ── обвивка в WP: фонът не е на body, а на root-а ── */\n"
-            ".ansa-promo{position:relative;z-index:0;min-height:60vh}\n"
+            ".ansa-promo{position:relative;min-height:60vh}\n"
             ".ansa-promo::before{position:absolute}\n")
     open('assets/promo.css', 'w', encoding='utf-8').write(hdr + res + tail)
     print('rules', res.count('{'), 'from', css.count('{'))

diff --git a/README.md b/README.md
@@ -26,6 +26,8 @@ includes/class-admin.php     меню „🎁 ansa Промо“: Състоян
 includes/class-doctor.php    env() — редовете на екрана „Състояние“; Фаза 2 добавя checks()
 includes/mu/                 LOGADOR GitHub Updater (копира се в mu-plugins)
 assets/promo.css             порт на CSS-а от мокъпа — генерира се с docs/port-css.py, не се пипа на ръка
+assets/promo-extra.css       добавките на плъгина върху порта: WC снимки, z-index над темата, бадж/цени в пълненето, цял екран
+templates/fullscreen.php     темплейт „ansa™ Промо — цял екран“ (Page Attributes → Template) — без хедър/футър на темата
 assets/promo.js              порт на app.js от мокъпа — PROD/BOXES/копи от runtime JSON, всеки текст през T(key)
 templates/page.php           скелетът (id-та apS1/apOv/… — мокъп s1/ov/… с префикс ap)
 tests/                       wpstub.php + harness/ (статична страница без WP + Playwright скрийншоти/проверки за {{ }}, undefined, JS грешки)
@@ -37,7 +39,7 @@ docs/                        планът + мокъпът + port-css.py + shots
 | Фаза | Версия | Какво | Снипет |
 |------|--------|-------|--------|
 | 0 | 1.0.0 · 1.0.1 | репо, скелет, updater, таблици, guard в Shrine 6.19.22; 1.0.1 = LOGADOR updater 1.1.2 (поглъща форка на Partner) | `snippets/phase-0.php` — отчет за средата |
-| 1 | 1.0.2 | конфиг + копи-регистър + порт на мокъп v73 + gate/leads + runtime ajax | `snippets/phase-1.php` |
+| 1 | 1.0.2 · 1.0.3 | конфиг + копи-регистър + порт на мокъп v73 + gate/leads + runtime ajax; 1.0.3 = цял екран, WC снимки, бадж с цена, таб 📦 Продукти | `snippets/phase-1.php` |
 | 2 | 1.0.3 | визуалният редактор | — |
 | 3 | 1.1.0 | количка и чекаут | — |
 | 4 | 1.2.0 | награди: билети, QR, REST, ваучер, книга | — |
@@ -66,5 +68,8 @@ docs/                        планът + мокъпът + port-css.py + shots
 **Решения на билдъра:** `order` е `{desktop:[s,l,m], mobile:[l,m,s]}` (мобилният ред е и в CSS на мокъпа, JS-ът го налага inline); `bgn {show, rate}` за „(… лв.)“ до крайната сума (мокъпът го има); продуктът има поле `pack` („60 капсули · за 30 дни“) с fallback към `prod.pack`; `gate.consent_default`; shortcode-ът на изключена игра печата „скоро“ + линк към черновата за админи; текстовете за билетите казват „QR код в пратката“ (D4), не „скреч карта“ (мокъпът); сетът навсякъде е „Новият козметичен сет на ansa™ · 5 уникални продукта на стойност €129. Стартира през 2027 година.“ (D11); `rw.info.book` казва „по имейл“ (D6), не „печатна книга“.
 
 **Какво човекът трябва да види (единствената визуална фаза):** `/страницата/?ansa_promo=draft&utm_content=sakura` на телефон и десктоп — gate → три кутии → „Напълни кутията си“ → „Честито“ → поръчка (бутонът дава тост „Фаза 1“). Казва „Браво“ или какво не е наред.
+
+### Фаза 1 · 1.0.3 — след първия поглед на човека
+Четири забележки от живата страница, всичките оправени: (1) темата се виждаше около играта → темплейт **„ansa™ Промо — цял екран“** за страницата + настройка „Скрий елементите на темата“ (списък селектори за OceanWP/Elementor/FunnelKit Cart/Claspo, редактируем в 🧰 Инструменти); overlay/тост/sticky вече са над хедъра на темата (root-ът не е stacking context). (2) WC снимките в „Честито“ и навсякъде се разливаха → `promo-extra.css`: фиксирани контейнери, бял фон, object-fit:contain. (3) нямаше откъде да се свърже ключ ↔ WC продукт → таб **📦 Продукти**: търсене по име/ID с превю на снимката, всички полета на продукта, добавяне/изтриване. (4) в редовете на „Напълни кутията си“ нямаше отстъпка и цени → бадж „−40%“ горе вдясно + намалена/редовна цена (това НЕ е в мокъп v73 — при v74 да влезе в мокъпа, иначе остава в promo-extra.css).
 
 **Въпроси (с дефолт, виж §9):** (P1) снимки — дефолт: снимката на WC продукта (поле `img` в продукта може да я замени с attachment id); (P1) арт за яхта/сет/книга — дефолт: емоджитата от мокъпа, сменяеми в ⚙ Двигател (Фаза 2).
